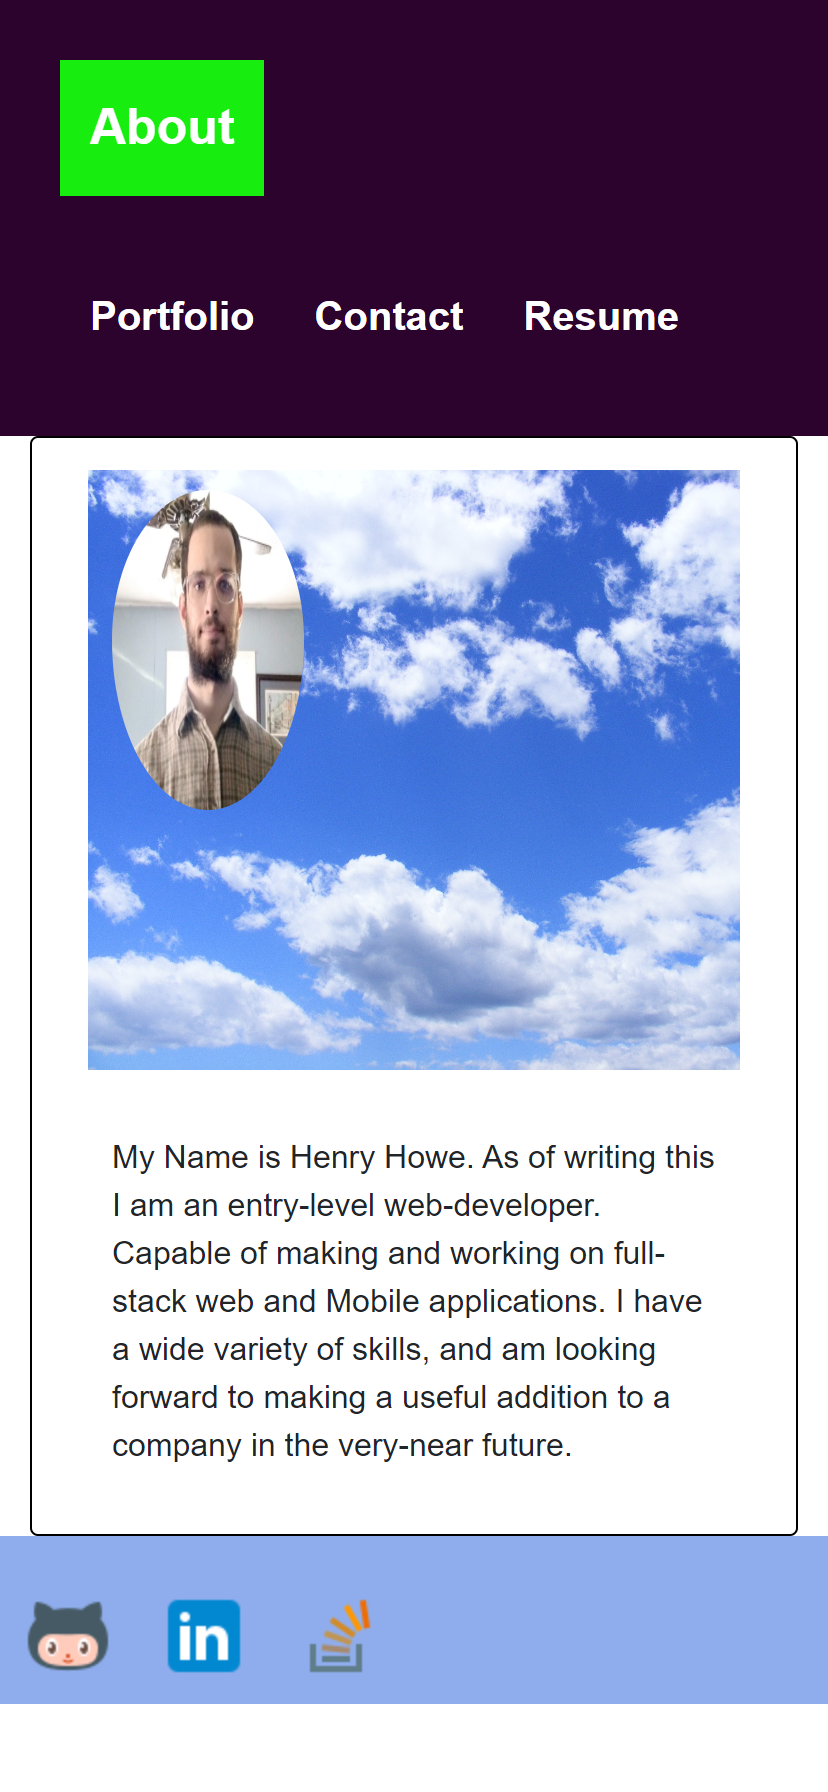
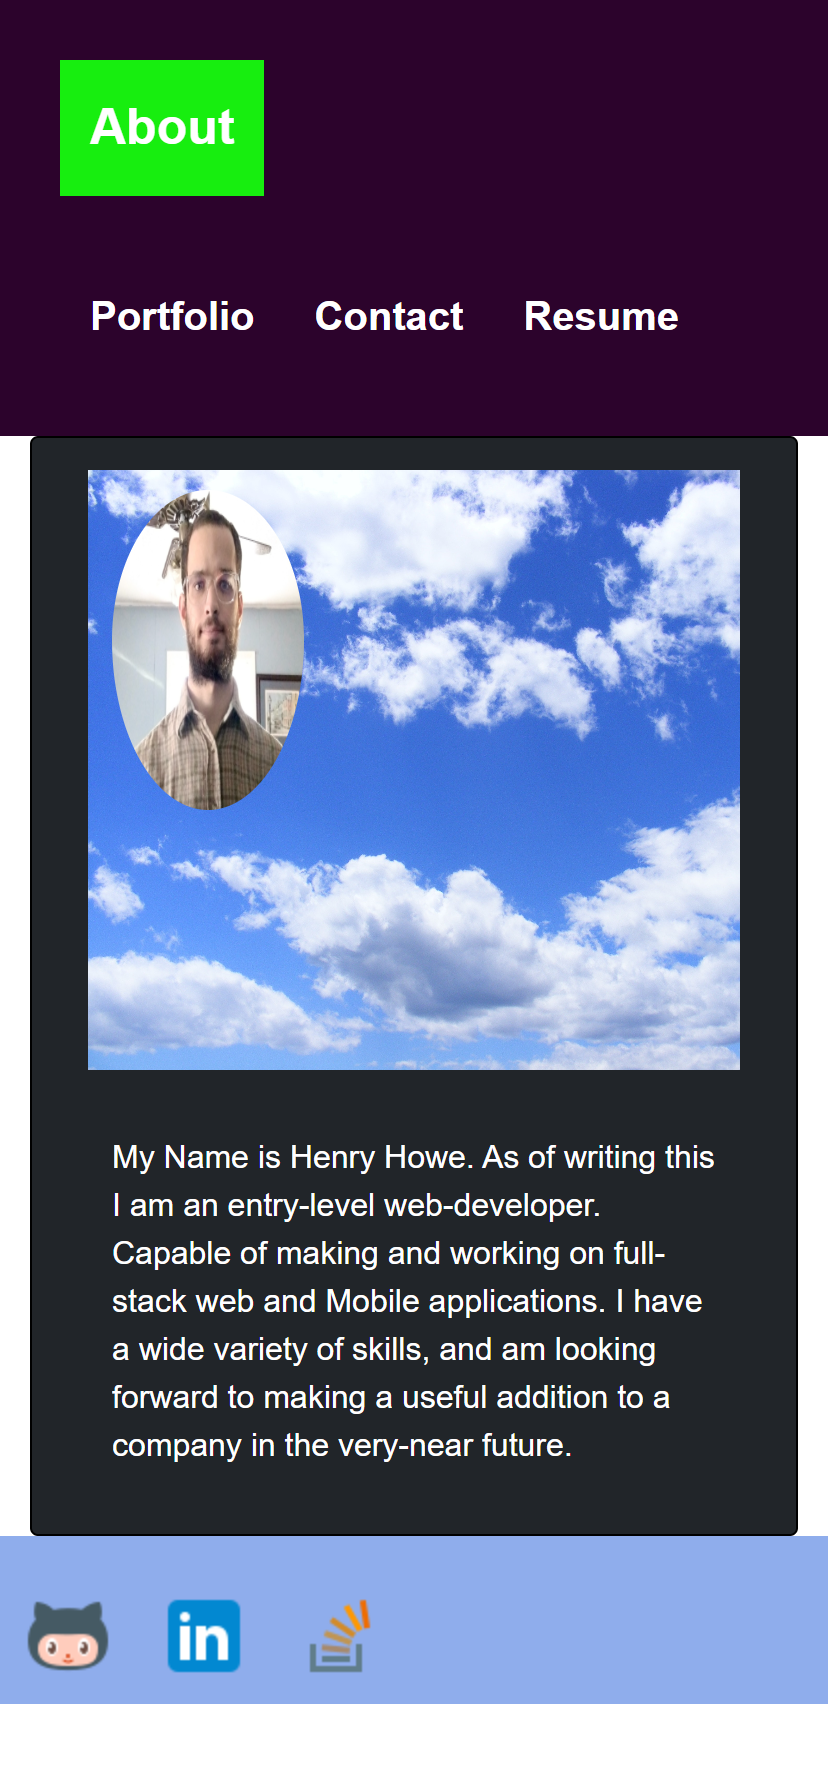
final commit and markdown

diff --git a/src/components/Portfolio.js b/src/components/Portfolio.js
@@ -8,7 +8,7 @@ function Portfolio() {
     return(
         <React.Fragment>
             <div className="container">
-                <div className="row bg-secondary">
+                <div className="row">
                     <div className="col">
                         <div className="card bg-secondary">
                             <div className="card-body">
